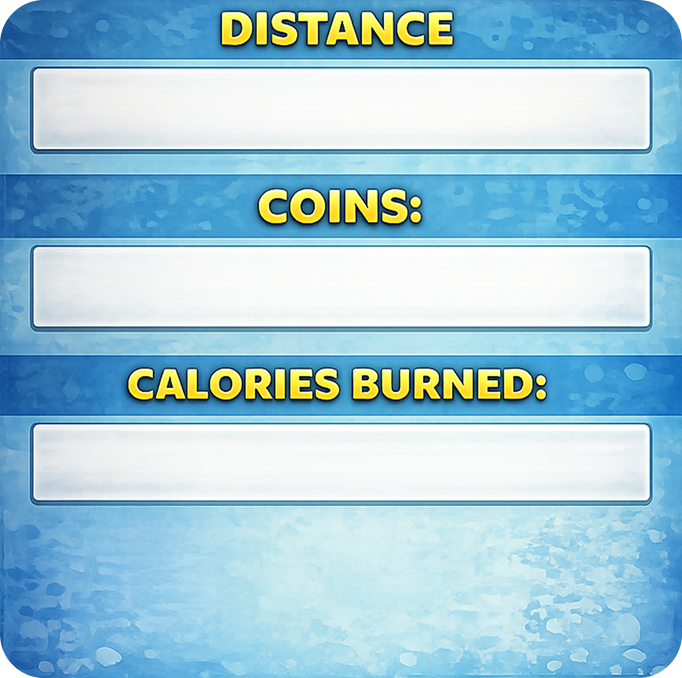
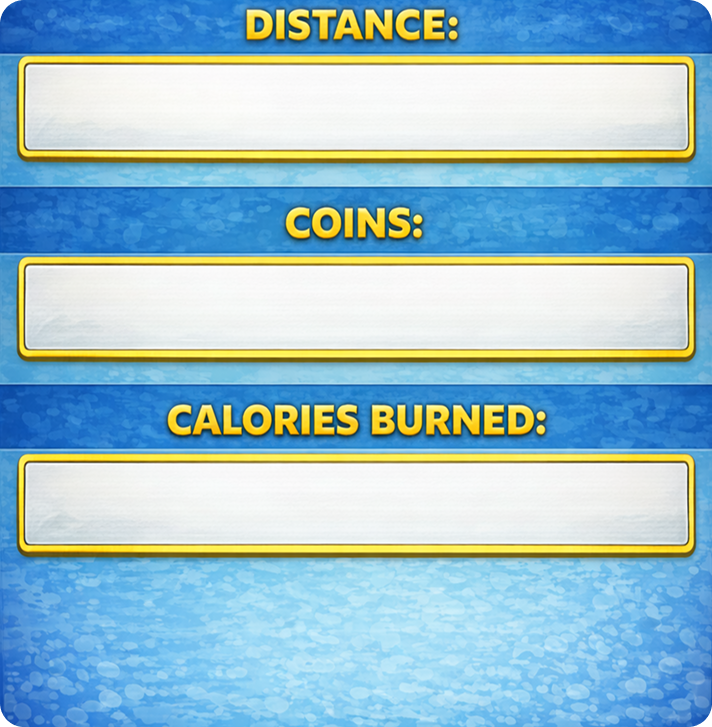
ReportCardPopup

diff --git a/Assets/Scripts/ReportCardUI.cs b/Assets/Scripts/ReportCardUI.cs
@@ -6,36 +6,78 @@ using UnityEngine.UI;
 public class ReportCardUI : MonoBehaviour
 {
     [Header("UI Refs")]
-    public GameObject popupRoot;   // ReportCardPopup (루트 오브젝트)
-    public Button retryButton;     // retry 버튼
+    public GameObject popupRoot;      // ReportCardPopup (루트)
+    public RectTransform popupRect;   // popupRoot의 RectTransform (없으면 popupRoot에서 자동 획득)
+    public Button retryButton;        // retry
+    public Button homeButton;         // home
 
     [Header("Timing")]
     public float showDelay = 2f;
 
+    [Header("Popup Intro Anim (Float Up)")]
+    public float introDuration = 0.34f;  // 애니 길이(조금 더)
+    public float introOffsetY = 30f;     // 위로 붕 뜨는 정도(조금 더)
+    public float introScaleFrom = 0.92f; // 시작 스케일(조금 더 작게)
+    public float introScaleTo = 1.08f;   // 끝 스케일(살짝 오버)
+
     Coroutine showCo;
+    Coroutine introCo;
+
+    Vector2 baseAnchoredPos;
+    Vector3 baseScale;
 
     void Awake()
     {
+        // popupRoot는 기본적으로 꺼둠
         if (popupRoot != null) popupRoot.SetActive(false);
 
+        // popupRect 자동 획득
+        if (popupRect == null && popupRoot != null)
+            popupRect = popupRoot.GetComponent<RectTransform>();
+
+        // 기준값 저장
+        if (popupRect != null)
+        {
+            baseAnchoredPos = popupRect.anchoredPosition;
+            baseScale = popupRect.localScale;
+        }
+
+        // 버튼 리스너 연결
         if (retryButton != null)
         {
             retryButton.onClick.RemoveListener(OnRetryClicked);
             retryButton.onClick.AddListener(OnRetryClicked);
         }
+
+        if (homeButton != null)
+        {
+            homeButton.onClick.RemoveListener(OnHomeClicked);
+            homeButton.onClick.AddListener(OnHomeClicked);
+        }
     }
 
-    void OnEnable()
+    void Start()
     {
-        // GameManager 이벤트 구독
-        if (GameManager.I != null)
-            GameManager.I.OnGameOverEvent += HandleGameOver;
+        // GameManager 이벤트 구독 (OnEnable 중복 구독 방지 위해 Start에서만 처리)
+        if (GameManager.I == null)
+        {
+            Debug.LogError("[ReportCardUI] GameManager.I is null in Start()");
+            return;
+        }
 
+        GameManager.I.OnGameOverEvent -= HandleGameOver; // 중복 방지
+        GameManager.I.OnGameOverEvent += HandleGameOver;
+
+        Debug.Log("[ReportCardUI] Subscribed to GameOverEvent");
+
+        // 씬 로드 이벤트 (재시작/씬 이동 시 팝업 초기화)
+        SceneManager.sceneLoaded -= OnSceneLoaded;
         SceneManager.sceneLoaded += OnSceneLoaded;
     }
 
-    void OnDisable()
+    void OnDestroy()
     {
+        // 구독 해제
         if (GameManager.I != null)
             GameManager.I.OnGameOverEvent -= HandleGameOver;
 
@@ -44,36 +86,104 @@ public class ReportCardUI : MonoBehaviour
 
     void OnSceneLoaded(Scene scene, LoadSceneMode mode)
     {
-        // 씬 재시작 시 팝업 숨김
-        if (showCo != null) { StopCoroutine(showCo); showCo = null; }
-        if (popupRoot != null) popupRoot.SetActive(false);
+        StopAllRunningCoroutines();
+        HidePopupImmediate();
     }
 
     void HandleGameOver(GameOverReason reason)
     {
-        if (showCo != null) StopCoroutine(showCo);
+        // 이미 떠있으면 중복 방지
+        StopAllRunningCoroutines();
         showCo = StartCoroutine(ShowAfterDelay());
     }
 
     IEnumerator ShowAfterDelay()
     {
-        yield return new WaitForSeconds(showDelay);
+        // timeScale=0이어도 딜레이 동작하게
+        yield return new WaitForSecondsRealtime(showDelay);
+
         if (popupRoot != null) popupRoot.SetActive(true);
+
+        // 등장 애니
+        if (popupRect != null)
+            introCo = StartCoroutine(PopupIntroAnim());
+
         showCo = null;
+    }
+
+    IEnumerator PopupIntroAnim()
+    {
+        if (popupRect == null) yield break;
+
+        // 기준값 갱신(레이아웃/스케일 변경 대응)
+        baseAnchoredPos = popupRect.anchoredPosition;
+        baseScale = popupRect.localScale;
+
+        Vector2 fromPos = baseAnchoredPos + new Vector2(0f, introOffsetY);
+        Vector2 toPos = baseAnchoredPos;
+
+        Vector3 fromScale = new Vector3(introScaleFrom, introScaleFrom, 1f);
+        Vector3 toScale = new Vector3(introScaleTo, introScaleTo, 1f);
+
+        popupRect.anchoredPosition = fromPos;
+        popupRect.localScale = fromScale;
+
+        float t = 0f;
+        while (t < introDuration)
+        {
+            t += Time.unscaledDeltaTime; // 게임 멈춰도 UI 애니는 돌게
+            float u = Mathf.Clamp01(t / introDuration);
+
+            // “붕” 튕김 느낌(오버슈트)
+            float eased = EaseOutBack(u);
+
+            popupRect.anchoredPosition = Vector2.LerpUnclamped(fromPos, toPos, eased);
+            popupRect.localScale = Vector3.LerpUnclamped(fromScale, toScale, eased);
+
+            yield return null;
+        }
+
+        popupRect.anchoredPosition = toPos;
+        popupRect.localScale = toScale;
+        introCo = null;
+    }
+
+    // 더 “붕” 뜨는 오버슈트 이징
+    float EaseOutBack(float x)
+    {
+        const float c1 = 1.70158f;
+        const float c3 = c1 + 1f;
+        return 1f + c3 * Mathf.Pow(x - 1f, 3f) + c1 * Mathf.Pow(x - 1f, 2f);
     }
 
     void OnRetryClicked()
     {
-        // 팝업 닫고 MainScene 재시작
+        HidePopupImmediate();
+        if (GameManager.I != null) GameManager.I.RestartMainScene();
+        else SceneManager.LoadScene("Main");
+    }
+
+    void OnHomeClicked()
+    {
+        HidePopupImmediate();
+        if (GameManager.I != null) GameManager.I.GoToStartScene();
+        else SceneManager.LoadScene("StartScene");
+    }
+
+    void HidePopupImmediate()
+    {
         if (popupRoot != null) popupRoot.SetActive(false);
 
-        if (GameManager.I != null)
+        if (popupRect != null)
         {
-            GameManager.I.RestartMainScene();
+            popupRect.anchoredPosition = baseAnchoredPos;
+            popupRect.localScale = baseScale;
         }
-        else
-        {
-            SceneManager.LoadScene("MainScene");
-        }
+    }
+
+    void StopAllRunningCoroutines()
+    {
+        if (showCo != null) { StopCoroutine(showCo); showCo = null; }
+        if (introCo != null) { StopCoroutine(introCo); introCo = null; }
     }
 }

diff --git a/Assets/_Core/Scripts/Game/GameManager.cs b/Assets/_Core/Scripts/Game/GameManager.cs
@@ -82,6 +82,8 @@ public class GameManager : MonoBehaviour
     {
         if (state == GameState.GameOver) return;
 
+        Debug.Log("[GameManager] GameOver CALLED");
+
         state = GameState.GameOver;
         gameOverReason = reason;
 
@@ -121,6 +123,19 @@ public class GameManager : MonoBehaviour
         distanceMeters = 0f;
 
         SceneManager.LoadScene("Main");
+    }
+
+    public void GoToStartScene()
+    {
+        state = GameState.Playing;
+        gameOverReason = GameOverReason.HitObstacle;
+        distanceMeters = 0f;
+
+        // 혹시 메인에서 죽고 playerMotor disabled 상태로 남아도,
+        // StartScene에서는 보통 플레이어가 없으니 그냥 씬만 전환해도 OK.
+        playerMotor = null;
+
+        SceneManager.LoadScene("StartScene");
     }
 
 }
